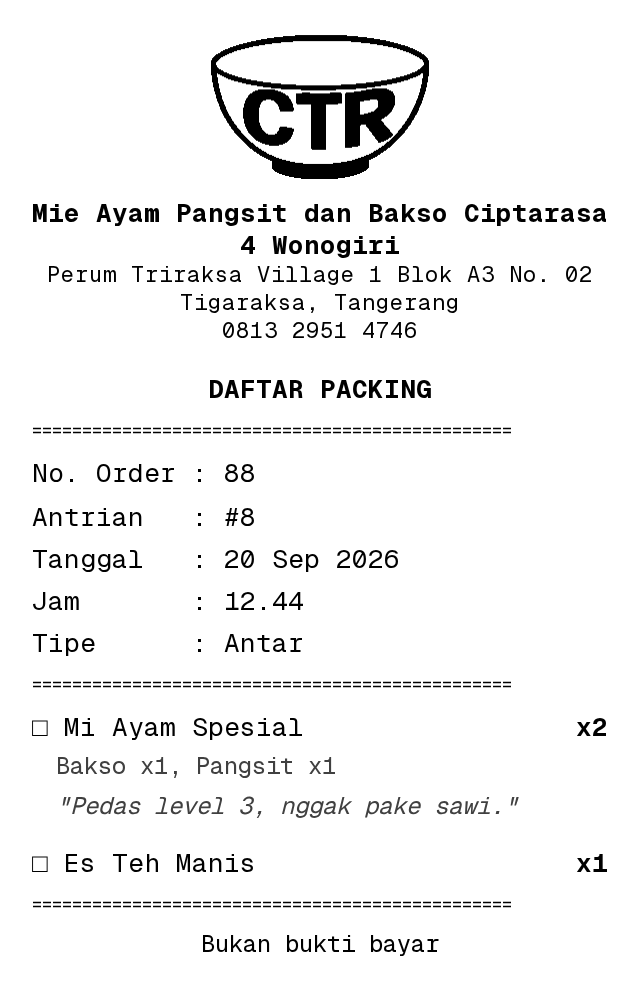
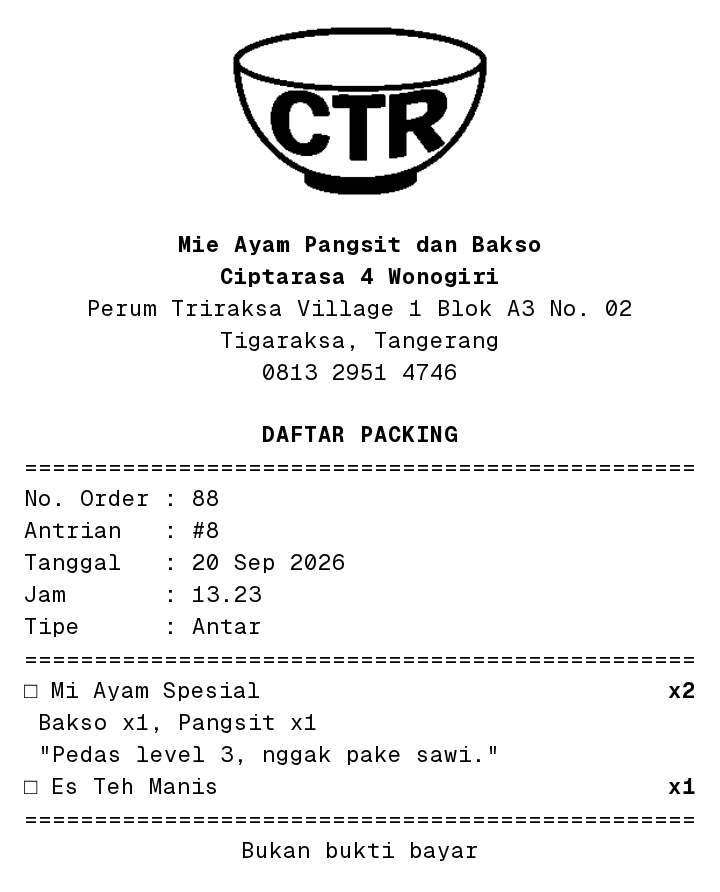
Struk: bungkus nama warung otomatis, dan preview jadi grid 48 kolom
Nama warung dipecah di batas kata oleh wrapHeading (paper.ts), bukan
di-hardcode: judul yang lebih panjang dari dua pertiga lebar kertas
dipecah, lalu dipakai lebar tersempit yang masih muat di jumlah baris
itu supaya blok tengahnya rata. "Mie Ayam Pangsit dan Bakso Ciptarasa 4
Wonogiri" jadi "Mie Ayam Pangsit dan Bakso" / "Ciptarasa 4 Wonogiri";
nama pendek tetap satu baris. Alamat dan telepon dibungkus keras di 48
kolom supaya tidak pernah lewat tepi kertas. Tetap tebal, ukuran normal.

Preview MockPrinter sekarang selebar 48 kolom persis (lebar 48ch dari
RECEIPT_CHARS_PER_LINE), satu baris layout = satu baris layar, tanpa
ukuran huruf atau margin per baris. Sebelumnya kotak 320px cuma muat
~37 kolom, jadi nama 47 kolom melipat di layar tapi tidak di kertas —
persis kegagalan yang membuat preview tidak bisa dipercaya. Layar sempit
menggeser overlay, bukan membungkus ulang struk.

Sekalian: Total tebal seluruh baris di layar seperti di kertas, dan
daftar packing menebalkan qty-nya saja di kedua-duanya.

Diverifikasi di build produksi: garis 48 karakter dan kotak kertas
sama-sama 336 px, tidak ada satu baris teks pun yang melipat, dan di
390 px preview masih muat tanpa geser. Paritas HTML vs byte tetap
identik untuk struk Antar, daftar packing, dan struk tanpa logo.

diff --git a/src/components/printing/paper-view.tsx b/src/components/printing/paper-view.tsx
@@ -1,18 +1,26 @@
-import { RECEIPT_LOGO_SRC, type LayoutLine } from "@/lib/printing/receipt-layout";
+import { RECEIPT_LOGO_SRC, RECEIPT_LOGO_WIDTH_DOTS, type LayoutLine } from "@/lib/printing/receipt-layout";
+import { FONT_A_COLUMN_DOTS, RECEIPT_CHARS_PER_LINE } from "@/lib/printing/paper";
 import { cn } from "@/components/ui/cn";
 
 // HTML renderer for the line list built by receipt-layout.ts — the on-screen
 // twin of the ESC/POS renderer in lib/printing/escpos.ts. It decides only how
-// each line LOOKS here (font weight, small text, "□"); what the lines say and
-// their order come from the layout module, so preview and paper cannot drift.
+// each line LOOKS here (font weight, "□"); what the lines say and their order
+// come from the layout module, so preview and paper cannot drift.
+//
+// This is a CHARACTER GRID, not a styled document: the paper is exactly
+// RECEIPT_CHARS_PER_LINE `ch` wide, every line is one row of the same
+// monospace size, and nothing has its own font size or vertical margin. The
+// whole point of MockPrinter is checking a layout without burning paper, and
+// that fails the moment the preview wraps somewhere the printer wouldn't —
+// which is exactly what a 320px box did: it fit ~37 columns, so a 47-column
+// warung name broke in two on screen and stayed on one line on paper.
 //
 // Emphasis is BOLD ONLY, never a bigger glyph — measured on the real ECO80D
 // (Tes Ketajaman, 20 Sep 2026): double-height and double-width text smears,
-// plain and bold text are crisp. The preview mirrors that so what the owner
-// sees here is what the paper gets (CLAUDE.md "Struk & printer").
+// plain and bold text are crisp (CLAUDE.md "Struk & printer").
 
 // "No. Order   : 67" — label column fixed-width (monospace `ch` unit) so the
-// colons line up down the block regardless of label length.
+// colons line up down the block, the same 10 columns escpos.ts pads to.
 function MetaRow({ label, value }: { label: string; value: string }) {
   return (
     <div className="flex">
@@ -22,15 +30,15 @@ function MetaRow({ label, value }: { label: string; value: string }) {
   );
 }
 
-function PaperLine({ line, afterRule }: { line: LayoutLine; afterRule: boolean }) {
+function PaperLine({ line }: { line: LayoutLine }) {
   switch (line.kind) {
     case "logo":
-      // Width in CSS px = half the 224 printed dots, the same ratio the rest
-      // of this preview uses (320px of screen for 48 columns of paper).
+      // Same fraction of the paper the raster really takes: the logo is
+      // RECEIPT_LOGO_WIDTH_DOTS wide and one column is FONT_A_COLUMN_DOTS.
       return (
         <div className="flex justify-center">
           {/* eslint-disable-next-line @next/next/no-img-element -- fixed local asset, not a Next/Image-optimized remote image */}
-          <img src={RECEIPT_LOGO_SRC} alt="" className="w-[112px]" />
+          <img src={RECEIPT_LOGO_SRC} alt="" style={{ width: `${RECEIPT_LOGO_WIDTH_DOTS / FONT_A_COLUMN_DOTS}ch` }} />
         </div>
       );
     case "text":
@@ -38,34 +46,28 @@ function PaperLine({ line, afterRule }: { line: LayoutLine; afterRule: boolean }
         <div
           className={cn(
             line.align === "center" && "text-center",
-            line.role === "title" && "leading-tight font-bold",
-            line.role === "heading" && "mt-1 font-bold",
-            line.role === "small" && "text-[11px] leading-tight",
-            line.role === "body" && "text-[12px] text-neutral-700",
-            line.role === "note" && "text-[12px]",
+            (line.role === "title" || line.role === "heading") && "font-bold",
           )}
         >
           {line.text}
         </div>
       );
     case "blank":
-      return <div className="h-2" />;
+      // A blank line is one row of paper, no more and no less.
+      return <div className="whitespace-pre"> </div>;
     case "rule":
-      // A literal repeated-character rule, the same string the printer gets,
-      // shrunk so RECEIPT_CHARS_PER_LINE characters span exactly the width.
-      return <div className="my-1.5 overflow-hidden text-[9px] leading-none whitespace-pre">{line.text}</div>;
+      // The literal repeated-character rule, the same string the printer
+      // gets — at this width it spans the paper on its own, no shrinking.
+      return <div className="whitespace-pre">{line.text}</div>;
     case "meta":
       return <MetaRow label={line.label} value={line.value} />;
     case "pair":
+      // justify-between lands the value on the right edge, where escpos.ts
+      // pads it to with spaces. Total is bold end to end; a daftar packing
+      // row bolds only the qty — the same two shapes escpos.ts emits.
       return (
-        <div
-          className={cn(
-            "flex justify-between gap-2",
-            (line.role === "item" || line.role === "qty") && !afterRule && "mt-2",
-            line.role === "total" && "font-bold",
-          )}
-        >
-          <span>
+        <div className={cn("flex justify-between gap-[1ch]", line.role === "total" && "font-bold")}>
+          <span className="whitespace-pre">
             {line.checkbox ? "□ " : ""}
             {line.left}
           </span>
@@ -73,19 +75,23 @@ function PaperLine({ line, afterRule }: { line: LayoutLine; afterRule: boolean }
         </div>
       );
     case "sub":
-      return (
-        <div className={cn("pl-3 text-[12px] text-neutral-700", line.role === "note" && "italic")}>{line.text}</div>
-      );
+      // One leading space on paper, so one column of indent here.
+      return <div className="pl-[1ch]">{line.text}</div>;
   }
 }
 
-// Simulates an 80mm thermal paper on screen: narrow fixed width, monospace.
+// Simulates 80mm thermal paper on screen: exactly as many monospace columns
+// as the printer has. The font size is what makes that fit on a phone; the
+// column count never changes with the screen (a narrow screen scrolls the
+// overlay instead of re-wrapping the receipt).
 export function PaperView({ lines }: { lines: LayoutLine[] }) {
   return (
-    <div className="mx-auto w-[320px] bg-white p-4 font-mono text-[13px] leading-relaxed text-black">
-      {lines.map((line, i) => (
-        <PaperLine key={i} line={line} afterRule={lines[i - 1]?.kind === "rule"} />
-      ))}
+    <div className="mx-auto w-fit bg-white p-3 font-mono text-[11px] leading-[1.45] text-black">
+      <div style={{ width: `${RECEIPT_CHARS_PER_LINE}ch` }}>
+        {lines.map((line, i) => (
+          <PaperLine key={i} line={line} />
+        ))}
+      </div>
     </div>
   );
 }

diff --git a/src/lib/printing/paper.ts b/src/lib/printing/paper.ts
@@ -16,6 +16,63 @@
 export const RECEIPT_PAPER_WIDTH_MM = 80;
 export const RECEIPT_CHARS_PER_LINE = RECEIPT_PAPER_WIDTH_MM >= 80 ? 48 : 32;
 
+// Dots one Font A character cell is wide (12x24). Only the on-screen preview
+// needs it, to size the logo image in the same character grid the text uses.
+export const FONT_A_COLUMN_DOTS = 12;
+
+// How wide a CENTERED HEADING (the warung name) is allowed to get before it
+// is broken across lines. 48 is still the hard limit — nothing ever prints
+// past it — but a heading that runs the full 48 columns is pressed against
+// both paper edges and reads as a wall of text, so two thirds of the width is
+// where breaking it starts to look deliberate. Derived, not a magic number:
+// change the paper width and this follows.
+export const RECEIPT_HEADING_WIDTH = Math.floor((RECEIPT_CHARS_PER_LINE * 2) / 3);
+
+// Greedy word wrap at `width` columns. A single word longer than the width is
+// hard-split (a 60-character word has to break somewhere) instead of being
+// allowed to run past the paper edge and wrap wherever the printer feels like.
+export function wrapWords(value: string, width: number): string[] {
+  const lines: string[] = [];
+  let current = "";
+  for (const word of value.split(/\s+/).filter(Boolean)) {
+    let rest = word;
+    while (rest.length > width) {
+      if (current) {
+        lines.push(current);
+        current = "";
+      }
+      lines.push(rest.slice(0, width));
+      rest = rest.slice(width);
+    }
+    if (!current) current = rest;
+    else if (current.length + 1 + rest.length <= width) current += ` ${rest}`;
+    else {
+      lines.push(current);
+      current = rest;
+    }
+  }
+  if (current) lines.push(current);
+  return lines.length > 0 ? lines : [""];
+}
+
+// Word wrap for a centered heading, balanced. First decide HOW MANY lines the
+// heading needs (a greedy wrap at RECEIPT_HEADING_WIDTH), then use the
+// narrowest width that still fits in that many lines — so a centered block
+// comes out roughly even instead of one long line plus a stub:
+//   "Mie Ayam Pangsit dan Bakso" / "Ciptarasa 4 Wonogiri"   (balanced)
+//   "Mie Ayam Pangsit dan Bakso Ciptarasa" / "4 Wonogiri"   (plain greedy)
+// Short names (most of them) come back as a single line, untouched.
+export function wrapHeading(value: string): string[] {
+  const lineCount = wrapWords(value, RECEIPT_HEADING_WIDTH).length;
+  if (lineCount <= 1) return wrapWords(value, RECEIPT_CHARS_PER_LINE);
+  let narrowest = RECEIPT_CHARS_PER_LINE;
+  for (let width = RECEIPT_CHARS_PER_LINE - 1; width >= 1; width--) {
+    if (wrapWords(value, width).length > lineCount) break;
+    narrowest = width;
+  }
+  return wrapWords(value, narrowest);
+}
+
 // A full-width rule, e.g. "================================================".
 export function paperRule(char: "=" | "-"): string {
   return char.repeat(RECEIPT_CHARS_PER_LINE);

diff --git a/src/lib/printing/escpos.ts b/src/lib/printing/escpos.ts
@@ -155,11 +155,19 @@ function styledText(value: string, role: TextRole): Uint8Array[] {
   return [line(value)];
 }
 
-// A name/value row whose value is emphasised: the Total, and the qty on a
-// daftar packing. Bold only, so the columns still line up exactly like an
-// ordinary rightLine row.
-function boldValueRow(label: string, value: string): Uint8Array[] {
+// The Total row: whole line bold, label and value both, still glued to the
+// right edge by the same rightLine padding as any other row.
+function totalRow(label: string, value: string): Uint8Array[] {
   return [BOLD_ON, line(rightLine(label, value)), BOLD_OFF];
+}
+
+// A daftar packing row: only the qty on the right is bold, so it pops out of
+// the checklist without shouting the product name too. The value is always
+// the tail of the rendered row, so bolding the last value.length characters
+// works whether or not rightLine had to break the row in two.
+function boldTailRow(label: string, value: string): Uint8Array[] {
+  const rendered = rightLine(label, value);
+  return [text(rendered.slice(0, rendered.length - value.length)), BOLD_ON, text(value), BOLD_OFF, text("\n")];
 }
 
 function renderLayout(lines: LayoutLine[], logo: LogoRaster | null | undefined): Uint8Array[] {
@@ -197,11 +205,9 @@ function renderLayout(lines: LayoutLine[], logo: LogoRaster | null | undefined):
         break;
       case "pair":
         align(false);
-        if (item.role === "total" || item.role === "qty") {
-          parts.push(...boldValueRow(item.checkbox ? `[ ] ${item.left}` : item.left, item.right));
-        } else {
-          parts.push(line(rightLine(item.checkbox ? `[ ] ${item.left}` : item.left, item.right)));
-        }
+        if (item.role === "total") parts.push(...totalRow(item.left, item.right));
+        else if (item.role === "qty") parts.push(...boldTailRow(`[ ] ${item.left}`, item.right));
+        else parts.push(line(rightLine(item.checkbox ? `[ ] ${item.left}` : item.left, item.right)));
         break;
       case "sub":
         align(false);
@@ -288,7 +294,7 @@ export function buildColumnTestBytes(): Uint8Array {
   // bold Total row. Both edge markers must still be exactly 48 wide — that is
   // what proves the emphasis was turned back off.
   push(line("[T3] setelah huruf tebal (harus 48)"), JUSTIFY_CENTER, ...styledText("NAMA WARUNG", "title"), JUSTIFY_LEFT);
-  push(line(edgeMarker(cols)), ...boldValueRow("Total", "Rp47.000"), line(edgeMarker(cols)));
+  push(line(edgeMarker(cols)), ...totalRow("Total", "Rp47.000"), line(edgeMarker(cols)));
 
   push(line("[T4] nomor kiri harus = nomor kanan"));
   for (let n = 1; n <= 24; n++) {

diff --git a/src/lib/printing/receipt-layout.ts b/src/lib/printing/receipt-layout.ts
@@ -13,7 +13,7 @@
 
 import type { PackingListData, ReceiptData } from "./types";
 import { formatRupiah, mergeReceiptItems, totalItemCount, groupAddonsForPrint, formatAddonWithQty } from "./format";
-import { centeredRule, paperRule } from "./paper";
+import { centeredRule, paperRule, wrapHeading, wrapWords, RECEIPT_CHARS_PER_LINE } from "./paper";
 import { formatId } from "@/lib/timezone";
 import { formatQueueLabel } from "@/lib/orders/queue-label";
 
@@ -22,6 +22,10 @@ import { formatQueueLabel } from "@/lib/orders/queue-label";
 // Setting is printed right below in sharp printer text, so a second line of
 // branding was just noise.
 export const RECEIPT_LOGO_SRC = "/assets/logo-ctr-thermal.png";
+// Must match the asset (scripts/make-thermal-logo.py prints it when it runs).
+// The printer reads the real size off the PNG; this is only so the preview can
+// show the logo at the same fraction of the paper width it will really take.
+export const RECEIPT_LOGO_WIDTH_DOTS = 224;
 
 export type TextRole = "title" | "heading" | "small" | "body" | "note";
 export type PairRole = "item" | "plain" | "total" | "qty";
@@ -85,10 +89,19 @@ function headerLines(
   heading?: string,
 ): LayoutLine[] {
   const lines: LayoutLine[] = [];
+  // Line breaks the owner typed in Setting are kept; each of those is then
+  // wrapped to the paper so a long name/address can never run off the edge
+  // (and the name is balanced across its lines — see wrapHeading).
   if (data.printLogo !== false) lines.push({ kind: "logo" }, { kind: "blank" });
-  for (const name of data.storeName.split("\n").filter(Boolean)) lines.push(text(name, "center", "title"));
-  for (const address of (data.address ?? "").split("\n").filter(Boolean)) lines.push(text(address, "center", "small"));
-  if (data.phone) lines.push(text(data.phone, "center", "small"));
+  for (const line of data.storeName.split("\n").filter(Boolean)) {
+    for (const name of wrapHeading(line)) lines.push(text(name, "center", "title"));
+  }
+  for (const line of (data.address ?? "").split("\n").filter(Boolean)) {
+    for (const address of wrapWords(line, RECEIPT_CHARS_PER_LINE)) lines.push(text(address, "center", "small"));
+  }
+  if (data.phone) {
+    for (const phone of wrapWords(data.phone, RECEIPT_CHARS_PER_LINE)) lines.push(text(phone, "center", "small"));
+  }
   lines.push({ kind: "blank" });
   if (heading) lines.push(text(heading, "center", "heading"));
   lines.push(rule("="));

diff --git a/src/components/printing/mock-printer-overlay.tsx b/src/components/printing/mock-printer-overlay.tsx
@@ -18,7 +18,10 @@ export function MockPrinterOverlay() {
     <AnimatePresence>
       {job && (
         <motion.div
-          className="fixed inset-0 z-50 flex items-start justify-center overflow-y-auto bg-black/50 p-6"
+          // overflow-auto, not just -y: the paper inside is a fixed 48-column
+          // grid and must never be squeezed into re-wrapping, so a screen too
+          // narrow for it scrolls sideways instead.
+          className="fixed inset-0 z-50 flex items-start justify-center overflow-auto bg-black/50 p-3 sm:p-6"
           initial={{ opacity: 0 }}
           animate={{ opacity: 1 }}
           exit={{ opacity: 0 }}
@@ -26,7 +29,7 @@ export function MockPrinterOverlay() {
           onClick={() => setJob(null)}
         >
           <motion.div
-            className="rounded-card shadow-sheet bg-surface mt-6"
+            className="rounded-card shadow-sheet bg-surface mt-6 shrink-0"
             initial={{ opacity: 0, y: 12 }}
             animate={{ opacity: 1, y: 0 }}
             exit={{ opacity: 0, y: 12 }}

diff --git a/CLAUDE.md b/CLAUDE.md
@@ -98,10 +98,12 @@ Kasus rombongan yang duduk di satu meja tapi mau bayar terpisah:
 - Nama warung, alamat, telepon, footer struk **selalu** dari tabel `Setting` (singleton), tidak pernah di-hardcode di kode. **Tidak ada satu pun teks tetap di header** — di bawah logo langsung nama warung dari `Setting` (caption "CIPTA RASA GROUP" dihapus 20 Sep 2026: mengulang identitas yang sudah tercetak di baris berikutnya).
 
 **Isi struk ditentukan di SATU tempat — jangan ditulis dua kali lagi.**
-- `src/lib/printing/receipt-layout.ts` (`buildReceiptLayout`, `buildPackingListLayout`) menghasilkan daftar baris: urutan, semua label (`CHANNEL_LABEL`, `PAYMENT_LABEL`), format tanggal/jam (lewat `timezone.ts`), pasangan nama-harga, garis pemisah, penutup. Dua renderer hanya membacanya: `components/printing/paper-view.tsx` (HTML — preview MockPrinter lewat `ReceiptView`/`PackingListView`) dan `escpos.ts` (byte ESC/POS untuk printer). Mereka boleh beda **hanya cara menggambar**: CSS `font-bold` vs perintah `ESC E`, `□` vs `[ ]`. Penekanan ada di `styledText`/`boldValueRow` di `escpos.ts` dan di kelas `font-bold` yang sepadan di `paper-view.tsx`. **Jangan menyalin label/format ke renderer, jangan bikin layout kedua.** Sebelum modul ini, layar dan kertas sudah menyimpang (kertas: garis raster, "Tel:", tanpa judul packing; layar: sebaliknya).
+- `src/lib/printing/receipt-layout.ts` (`buildReceiptLayout`, `buildPackingListLayout`) menghasilkan daftar baris: urutan, semua label (`CHANNEL_LABEL`, `PAYMENT_LABEL`), format tanggal/jam (lewat `timezone.ts`), pasangan nama-harga, garis pemisah, penutup. Dua renderer hanya membacanya: `components/printing/paper-view.tsx` (HTML — preview MockPrinter lewat `ReceiptView`/`PackingListView`) dan `escpos.ts` (byte ESC/POS untuk printer). Mereka boleh beda **hanya cara menggambar**: CSS `font-bold` vs perintah `ESC E`, `□` vs `[ ]`. Penekanan ada di `styledText`/`totalRow`/`boldTailRow` di `escpos.ts` dan di kelas `font-bold` yang sepadan di `paper-view.tsx` (Total tebal seluruh baris; daftar packing cuma qty-nya). **Jangan menyalin label/format ke renderer, jangan bikin layout kedua.** Sebelum modul ini, layar dan kertas sudah menyimpang (kertas: garis raster, "Tel:", tanpa judul packing; layar: sebaliknya).
 - **MockPrinter (`ReceiptView`) adalah acuan isi dan struktur** (keputusan pemilik, 20 Sep 2026). Paritas diverifikasi dengan merender HTML dan byte dari data yang sama lalu membandingkan aliran teksnya (struk Antar dengan ongkir/catatan/add-on qty/item digabung, daftar packing, struk tanpa logo — identik).
 - **Penekanan = TEBAL SAJA (`ESC E`), tidak pernah ukuran ganda.** Terukur di printer asli (Tes Ketajaman, 20 Sep 2026): huruf normal dan tebal tajam, tapi SETIAP varian 2x tinggi / 2x lebar meleber dan keseret — termasuk kombinasi yang dulu dipakai nama warung (2x tinggi + tebal) dan Total (2x lebar + tebal). Sekarang nama warung, judul "DAFTAR PACKING", Total, dan qty daftar packing semuanya tebal di ukuran normal, dan preview layar dibuat sama (tanpa `text-sm`/`text-base`/`text-lg`). **Jangan kembalikan bit ukuran `ESC !` tanpa tes ulang di kertas.**
 - **Ketajaman cetak TIDAK bisa diatur — printer ini mengabaikannya.** Tes Ketajaman 20 Sep 2026 mencetak sembilan kombinasi `ESC 7` (titik/waktu/jeda pemanasan) dan `DC2 #` (kepekatan) dalam satu lembar: hasilnya **identik semua**, jadi Blueprint ECO80D mengabaikan kedua perintah itu — sama seperti mengabaikan bit Font B. Kartu "Ketajaman cetak", empat kolom `Setting`, `tuning.ts`, dan `buildSharpnessTestBytes` dihapus (migrasi `20260920140000_drop_print_tuning`). **Jangan menambahkan lagi pengaturan yang tidak berefek** — kalau huruf terlihat kurang tajam, penyebabnya ukuran huruf atau kertas, bukan pemanasan.
+- **Preview layar adalah GRID KARAKTER selebar 48 kolom, bukan dokumen bergaya.** `PaperView` memakai lebar `48ch` (dari `RECEIPT_CHARS_PER_LINE`), satu baris layout = satu baris layar, dan **tidak ada baris yang punya ukuran huruf atau margin sendiri** — kalau ada, kolomnya tidak lagi sebaris dengan kertas. Dulu kotaknya 320px yang cuma muat ~37 kolom, jadi nama warung 47 kolom melipat di layar padahal tidak melipat di kertas; seluruh gunanya MockPrinter hilang kalau itu terjadi. Layar yang terlalu sempit **menggeser (scroll) overlay, bukan membungkus ulang struk**. Logo di preview dilebarkan `RECEIPT_LOGO_WIDTH_DOTS / FONT_A_COLUMN_DOTS` kolom supaya porsinya sama dengan di kertas.
+- **Nama warung dibungkus otomatis, dan seimbang.** `wrapHeading` di `paper.ts`: kalau nama lebih panjang dari `RECEIPT_HEADING_WIDTH` (dua pertiga lebar kertas = 32 kolom) ia dipecah **di batas kata**, lalu dipakai lebar tersempit yang masih muat di jumlah baris itu — jadi blok tengahnya rata ("Mie Ayam Pangsit dan Bakso" / "Ciptarasa 4 Wonogiri", bukan "…Bakso Ciptarasa" / "4 Wonogiri"). Nama pendek tetap satu baris. Alamat dan telepon dibungkus keras di 48 kolom (`wrapWords`) supaya tidak pernah melewati tepi kertas. Semua dari `Setting`, **tidak ada yang di-hardcode** — ganti nama warung di Pengaturan dan pemecahannya ikut benar. Catatan: 48 tetap batas keras; nama 47 karakter sebenarnya MUAT satu baris, dipecah karena judul yang menempel di dua tepi kertas sulit dibaca.
 - **Garis pemisah pakai karakter, bukan raster:** `=` antar BAGIAN besar, `-` di DALAM bagian, penutup `=============== Terima kasih! ===============` dengan teks di tengah. Garis raster 1-dot (versi opencode) nyaris tidak terlihat di kertas. Preview menampilkan dua baris `=` berturut-turut sebelum penutup — itu bawaan MockPrinter, diikuti persis.
 - **Lebar = 48 kolom Font A, terukur di printer asli** (Tes Lebar Kolom, 20 Sep 2026): teks melipat tepat setelah 48 kolom, baris 48 penuh + LF tidak menambah baris kosong, penekanan ter-reset setelah judul/Total, dan tidak ada byte hilang lewat frame BLE 512 byte (24 baris bernomor cocok semua — tapi itu cuma ~2,5 KB; raster logo jauh lebih besar). 48 kolom memakai **seluruh lebar kertas 80mm — jangan dikurangi jadi margin.** Satu konstanta: `RECEIPT_CHARS_PER_LINE` di `paper.ts`. Bit font B di `ESC !` diabaikan printer ini (Font B tidak bisa dipilih lewat `ESC ! 1`); struk cuma memakai Font A. Foto struk lama yang memperlihatkan "harga bergeser satu baris" berasal dari versi kode sebelum `60d25c3` dan sudah tidak terjadi di layout sekarang.
 - **Logo:** aset khusus thermal `public/assets/logo-ctr-thermal.png` — hanya mangkok + "CTR" tebal, **224 dot (≈28 mm)**, 1-bit, dibuat `scripts/make-thermal-logo.py` dari `reference/logo HD.png` (klasifikasi warna, bukan grayscale; teks melengkung dibuang). `logo-raster.ts` menggambarnya ke kanvas **pada ukuran asli tanpa scaling** — logo lama (260px, teks melengkung halus, di-scale) tercetak jadi bercak. Versi 416 dot (≈52 mm) tercetak terbaca tapi memakan hampir seluruh lebar cetak, **dan garis atas mangkoknya bergelombang/bergeser mendatar** — gejala frame BLE hilang. 224 dot memotong raster dari ~14 KB (29 frame) jadi ~4 KB (9 frame). **Kalau garis mangkok masih bergeser, naikkan `CHUNK_GAP_MS` di `web-bluetooth-printer.ts` dari 30 ke 50 ms** — itu langkah berikutnya, bukan mengecilkan logo lagi. Toggle `Setting.printLogo` ("Cetak logo di struk"); preview layar ikut toggle yang sama.
